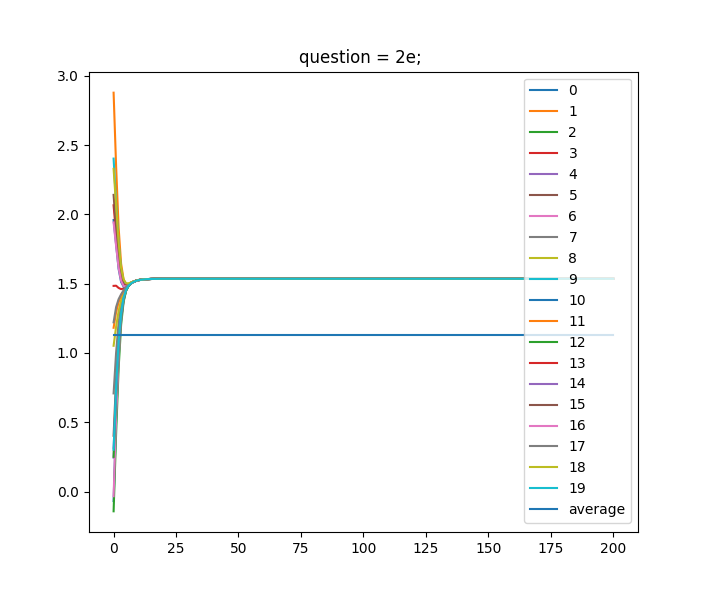
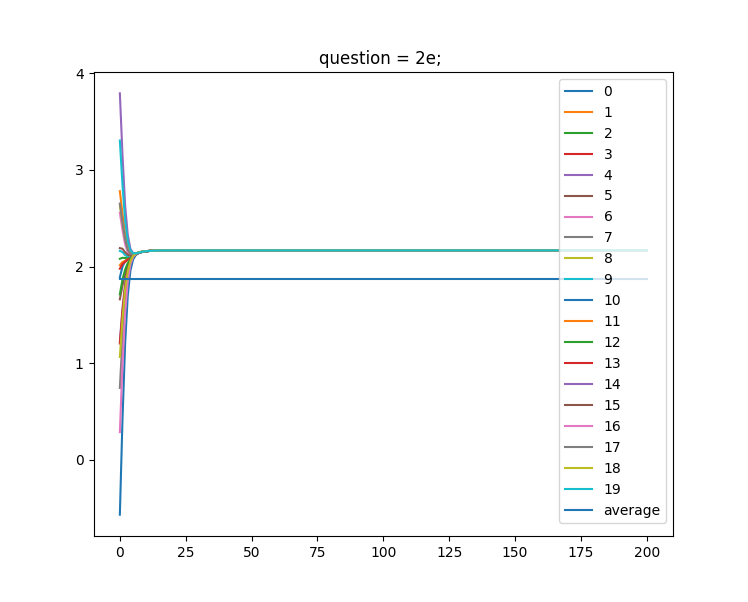
2 done

diff --git a/PSET3/spoofing.py b/PSET3/spoofing.py
@@ -3,10 +3,8 @@ from tempfile import SpooledTemporaryFile
 import numpy as np
 import matplotlib.pyplot as plt
 
-import math
-
 # Run experiments for different questions:
-question = "2d"
+question = "2ei"
 
 run_question = {
     "2a" : False,
@@ -84,14 +82,8 @@ class Environment(object):
         self.leg = np.matmul(self.W, np.concatenate((self.leg, self.spoof), axis=0))
         self.spoof = np.matmul(self.Theta, self.leg) + np.matmul(self.Omega, self.spoof)
 
-        def sin_func(x):
-            B = np.pi * 2 / 50
-            C = B / 4
-            D = 4
-            return  math.sin(B*(x + C)) + D
-
         if run_question["2ei"]:
-            self.spoof.fill(sin_func(self.iter))
+            self.spoof.fill(sin_positions[self.iter])
         
         self.iter += 1
 
@@ -142,16 +134,12 @@ def run(leg, spoof, **kwargs):
     alphas = 0.4 * alphas
     alphas[:, -spoof.shape[0]:] = -1 * alphas[:, -spoof.shape[0]:] 
 
-
     alphas = AlphaWeights(alphas)
-
 
     theta = np.zeros((spoof.shape[0], leg.shape[0]))
 
-
     # Sets the spoof transition function to account for the exponential case in 2e
     omega = np.eye(spoof.shape[0]) * 1.01 if run_question["2eii"] else np.eye(spoof.shape[0]) 
-
 
     # Define the environment
     env = Environment(leg, spoof, theta, omega)
@@ -160,12 +148,9 @@ def run(leg, spoof, **kwargs):
     iter = 200
 
     # Sine values
-    # y = sin(2pi/50 (x + 2pi/200)) + 4
-    # def sin_func(x):
-    #     B = np.pi * 2 / 50
-    #     C = B / 4
-    #     D = 4
-    #     return  np.sin(B(x + C)) + D
+    step = 2 * np.pi / 50
+    inputs = np.arange(0, iter*step, step)
+    sin_values = np.sin(inputs) + 4
 
     # inputs = np.arange(0, iter)
     # theta = 2 * np.pi
@@ -187,7 +172,7 @@ def run(leg, spoof, **kwargs):
     for i in range(iter):
         alphas.update_betas()
         env.transition_W(alphas)        # update W at every iteration
-        env.update()
+        env.update(sin_values)
 
         # spoof_states.append(env.spoof)
         spoof_states.append(np.array(env.spoof.tolist()))
